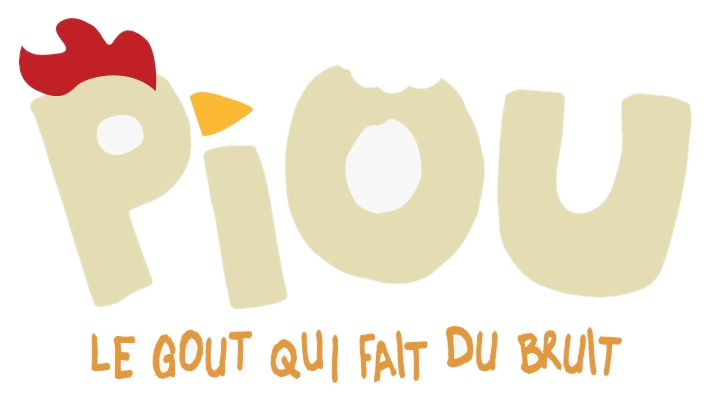
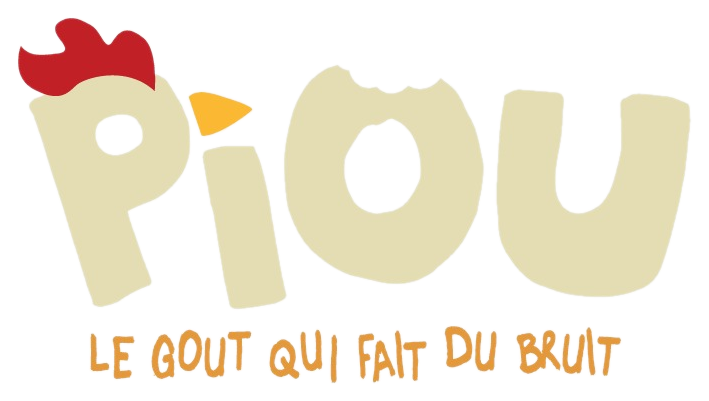
update fin aout

diff --git a/assets/css/main.scss b/assets/css/main.scss
@@ -386,6 +386,7 @@ $hero-slide-segment: math.div(100%, $hero-slide-count);
 // ─── Sections ────────────────────────────────────────────────────────────────
 .section {
   padding: $space-xl $space-md;
+  scroll-margin-top: $header-height;
   &--alt {
     background: $color-light;
   }

diff --git a/scripts/build_sponsors.py b/scripts/build_sponsors.py
@@ -66,18 +66,32 @@ def strip_background(im: Image.Image) -> Image.Image:
     """Rend transparent le fond uni d'un logo photographié/scanné.
 
     Part des 4 coins et propage (flood fill, avec tolérance de couleur) vers
-    l'intérieur : seul le fond connecté aux bords est supprimé, ce qui évite
-    de créer des trous si le logo contient des zones de couleur proche du fond.
+    l'intérieur pour capter le fond connecté aux bords (y compris ses dégradés
+    de compression/scan). En complément, toute zone de l'image dont la couleur
+    est proche de celle d'un des coins est aussi rendue transparente même si
+    elle n'est pas reliée au bord — par exemple l'intérieur d'une lettre
+    fermée (un "o", un "d"...) qui a été scanné avec la même couleur de fond.
     """
     rgb = im.convert("RGB")
+    arr = np.asarray(rgb).astype(int)
     mask_src = rgb.copy()
     w, h = mask_src.size
     sentinel = (255, 0, 255)  # couleur improbable dans un logo
+    corner_colors = []
     for seed in {(0, 0), (w - 1, 0), (0, h - 1), (w - 1, h - 1)}:
-        if mask_src.getpixel(seed) != sentinel:
+        color = mask_src.getpixel(seed)
+        if color != sentinel:
+            corner_colors.append(color)
             ImageDraw.floodfill(mask_src, seed, sentinel, thresh=BG_THRESHOLD)
 
     bg_mask = np.all(np.asarray(mask_src) == sentinel, axis=-1)
+
+    if corner_colors:
+        colors = np.array(corner_colors)[:, None, None, :]  # (n, 1, 1, 3)
+        diff = np.abs(arr[None, :, :, :] - colors).max(axis=-1)  # (n, h, w)
+        color_mask = (diff <= BG_THRESHOLD).any(axis=0)
+        bg_mask = bg_mask | color_mask
+
     alpha = Image.fromarray(np.where(bg_mask, 0, 255).astype("uint8"), mode="L")
     if FEATHER:
         alpha = alpha.filter(ImageFilter.GaussianBlur(FEATHER))

diff --git a/index.md b/index.md
@@ -25,6 +25,7 @@ description: "1ère édition du Semi-Marathon de Saint-Jory — 29 novembre 2026
     <div class="hero-actions">
       <a href="{{ site.event.inscription_url }}" class="btn btn-primary" target="_blank" rel="noopener">S'inscrire</a>
       <a href="{{ '/parcours/' | relative_url }}" class="btn btn-outline">Voir le parcours</a>
+      <a href="#preparer-entrainement" class="btn btn-outline">Préparer votre course</a>
     </div>
 
   </div>
@@ -51,6 +52,28 @@ description: "1ère édition du Semi-Marathon de Saint-Jory — 29 novembre 2026
       <a href="{{ site.event.inscription_url }}" class="btn btn-primary" target="_blank" rel="noopener">S'inscrire sur chrono-start.fr</a>
     </div>
 
+  </div>
+</section>
+
+<!-- ── CTA: PLAN & TEST VMA ─────────────────────────────────────────────── -->
+<section id="preparer-entrainement" class="section section--alt">
+  <div class="container">
+    <h2 class="section-title">Préparez votre course</h2>
+    <div class="cards">
+      <div class="card">
+        <div class="card-icon">📋</div>
+        <h3>Plan d'entraînement personnalisé</h3>
+        <p>Accédez à votre plan perso de 12 semaines pour préparer le semi-marathon dans les meilleures conditions.</p>
+        <a href="{{ site.event.plan_entrainement_url }}" class="btn btn-primary" target="_blank" rel="noopener">Accéder au plan perso de 12 semaines</a>
+      </div>
+      <div class="card">
+        <div class="card-icon">⏱</div>
+        <h3>Test VMA</h3>
+        <p>Inscrivez-vous à un test VMA pour évaluer votre niveau et calibrer vos allures d'entraînement.</p>
+        <p>📅 Jeudi 3 septembre 2026 à 19h15<br>📍 <a href="https://www.google.com/maps/search/?api=1&query=Stade+municipal+David+Berty+Saint-Jory" target="_blank" rel="noopener">Stade municipal David Berty, Saint-Jory</a></p>
+        <a href="{{ site.event.test_vma_url }}" class="btn btn-primary" target="_blank" rel="noopener">S'inscrire à un test VMA</a>
+      </div>
+    </div>
   </div>
 </section>
 

diff --git a/mentions-legales.md b/mentions-legales.md
@@ -6,10 +6,9 @@ permalink: /mentions-legales/
 
 ## Éditeur du site
 
-**Terre de Running Saint-Jory**
-_[À COMPLÉTER — forme juridique, ex. « association loi du 1er juillet 1901 »]_
-_[À COMPLÉTER — adresse du siège social]_
-_[À COMPLÉTER — numéro SIRET ou numéro RNA (répertoire national des associations)]_
+**SARL TDR SAINT JORY**
+SIRET : 990 727 323 00018
+60A route métropolitaine 820, 31790 Saint-Jory
 
 Directeur de la publication : _[À COMPLÉTER — nom du président ou responsable désigné]_
 
@@ -26,7 +25,7 @@ Le contenu de ce site (textes, photos, logos, tracés du parcours) est la propri
 
 ## Données personnelles
 
-Le responsable du traitement des données collectées via ce site est **Terre de Running Saint-Jory**, dont les coordonnées figurent ci-dessus.
+Le responsable du traitement des données collectées via ce site est **SARL TDR SAINT JORY**, dont les coordonnées figurent ci-dessus.
 
 ### Formulaire de contact
 
